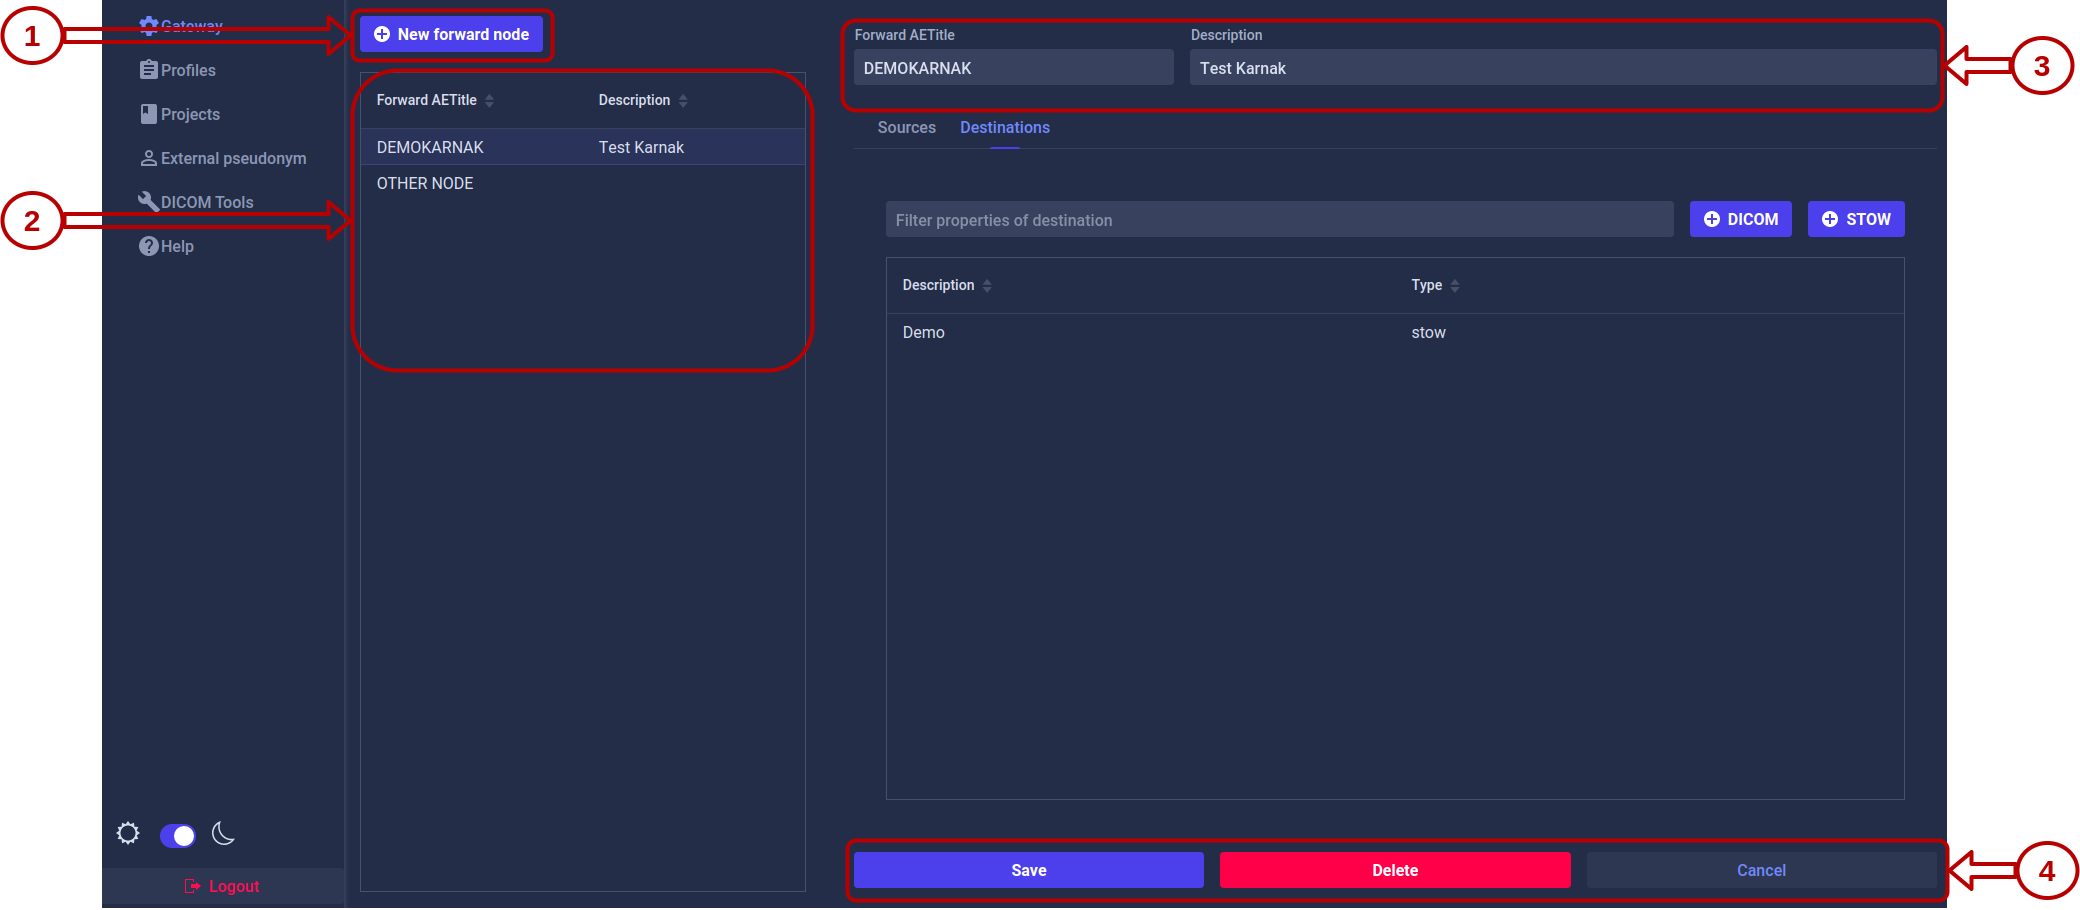
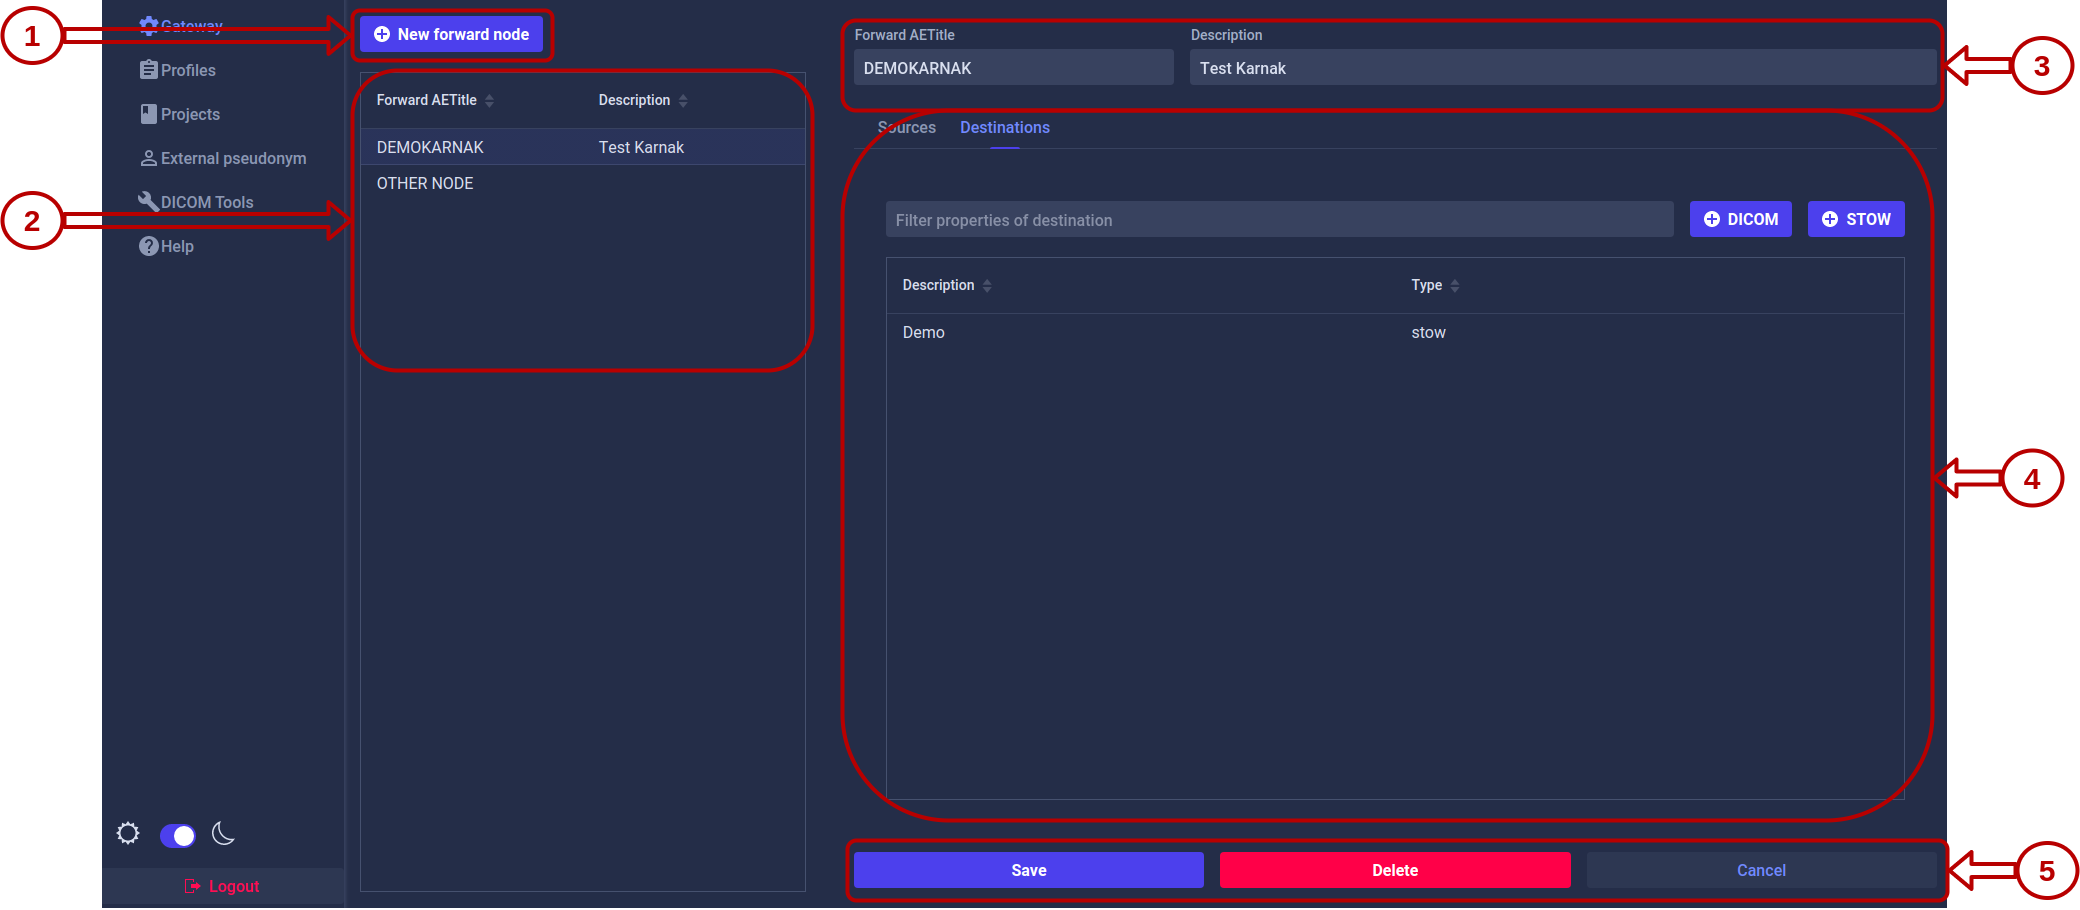
Add details about the forward node

diff --git a/docs/userguide/userguide_gateway.md b/docs/userguide/userguide_gateway.md
@@ -18,7 +18,7 @@ permalink: /docs/userguide/gateway
 
 ## Forward Node
 
-This page allows the creation of a forward node and its edition. All the forward nodes present in your KARNAK are listed here.
+This page allows the creation of a forward node and its edition. All the forward nodes present in your KARNAK are listed here. The forward node will configure the Application Entity of your DICOM node.
 
 ![gateway_page](resources/gateway_forwardnode.png)
 
@@ -38,7 +38,45 @@ This list displays all the forward nodes created in your KARNAK instance. You ca
 
 You can directly modify the value of the forward AETitle and its description. To save your changes, you have to click on the "Save" action button.
 
-### 4. Action buttons
+### 4. Forward node sources or destinations
+
+In an Application Entity, you can add source control, which checks if the received DICOM is provided from a known source. You can also create one or more destinations to distribute received DICOM instance. These destinations can communicate with the DICOM or DICOM WEB protocol.
+
+![gateway destinations](resources/gateway_destinationspage.png)
+
+#### 4.1 Sources or destinations navigation
+
+Depending on the navigation selected, between sources and destinations, the list and the action buttons will change.
+
+#### 4.2 Filter in destinations or sources list
+
+The destination filter will use the destination description.
+
+The source filter will use the AE title, hostname and description source.
+
+#### 4.3 Destination or sources list
+
+All the destinations or sources, depending on the navigation selected, associated to the forward node is listed here.
+
+You can click on a destination or source present in this list to view details or to modify it.
+
+#### 4.4 Action buttons
+
+The action buttons will change depending the navigation selected.
+
+For a destination, these buttons defined the protocol you can use to create a destination. The protocol can be DICOM or DICOM WEB. The details for the destination creation will be explained below in the section [Destinations](#Destinations).
+
+If you click on the DICOM button, the DICOM destination creation page will appear.
+
+If you click on the STOW button, the DICOM WEB destination creation page will appear.
+
+For a source, the illustration below show the button. The details for the source creation will be explained below in the section [Sources](#Sources).
+
+![Sources button](resources/gateway_sourcesbutton.png)
+
+ If you click on the the Sources button, the source creation page will appear.
+
+### 5. Action buttons
 
 You have three action buttons available.
 
@@ -48,3 +86,4 @@ You have three action buttons available.
 
 ## Destinations
 
+## Sources
